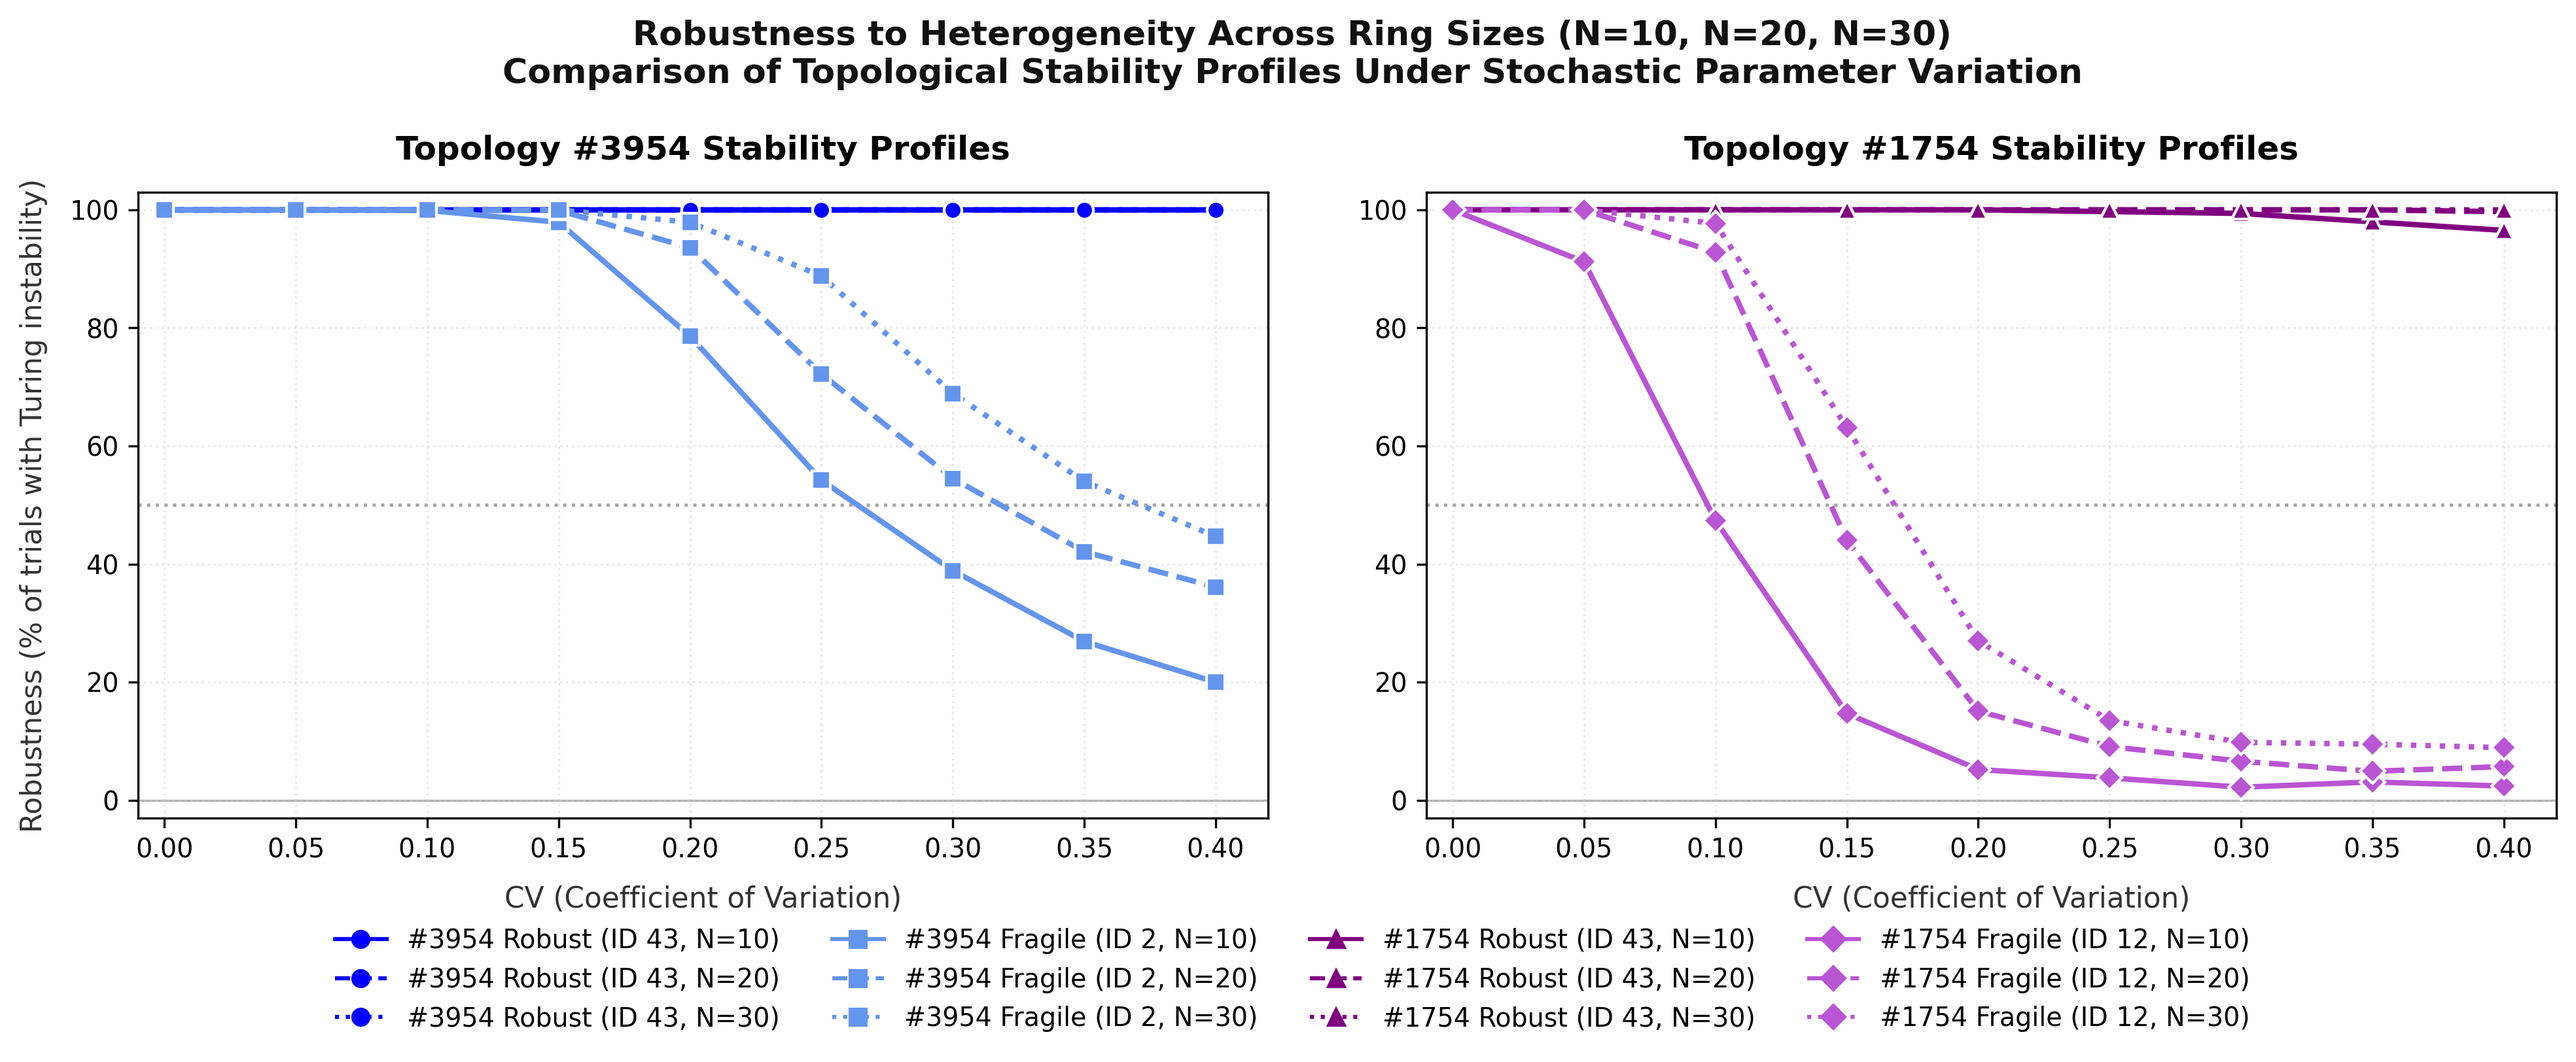
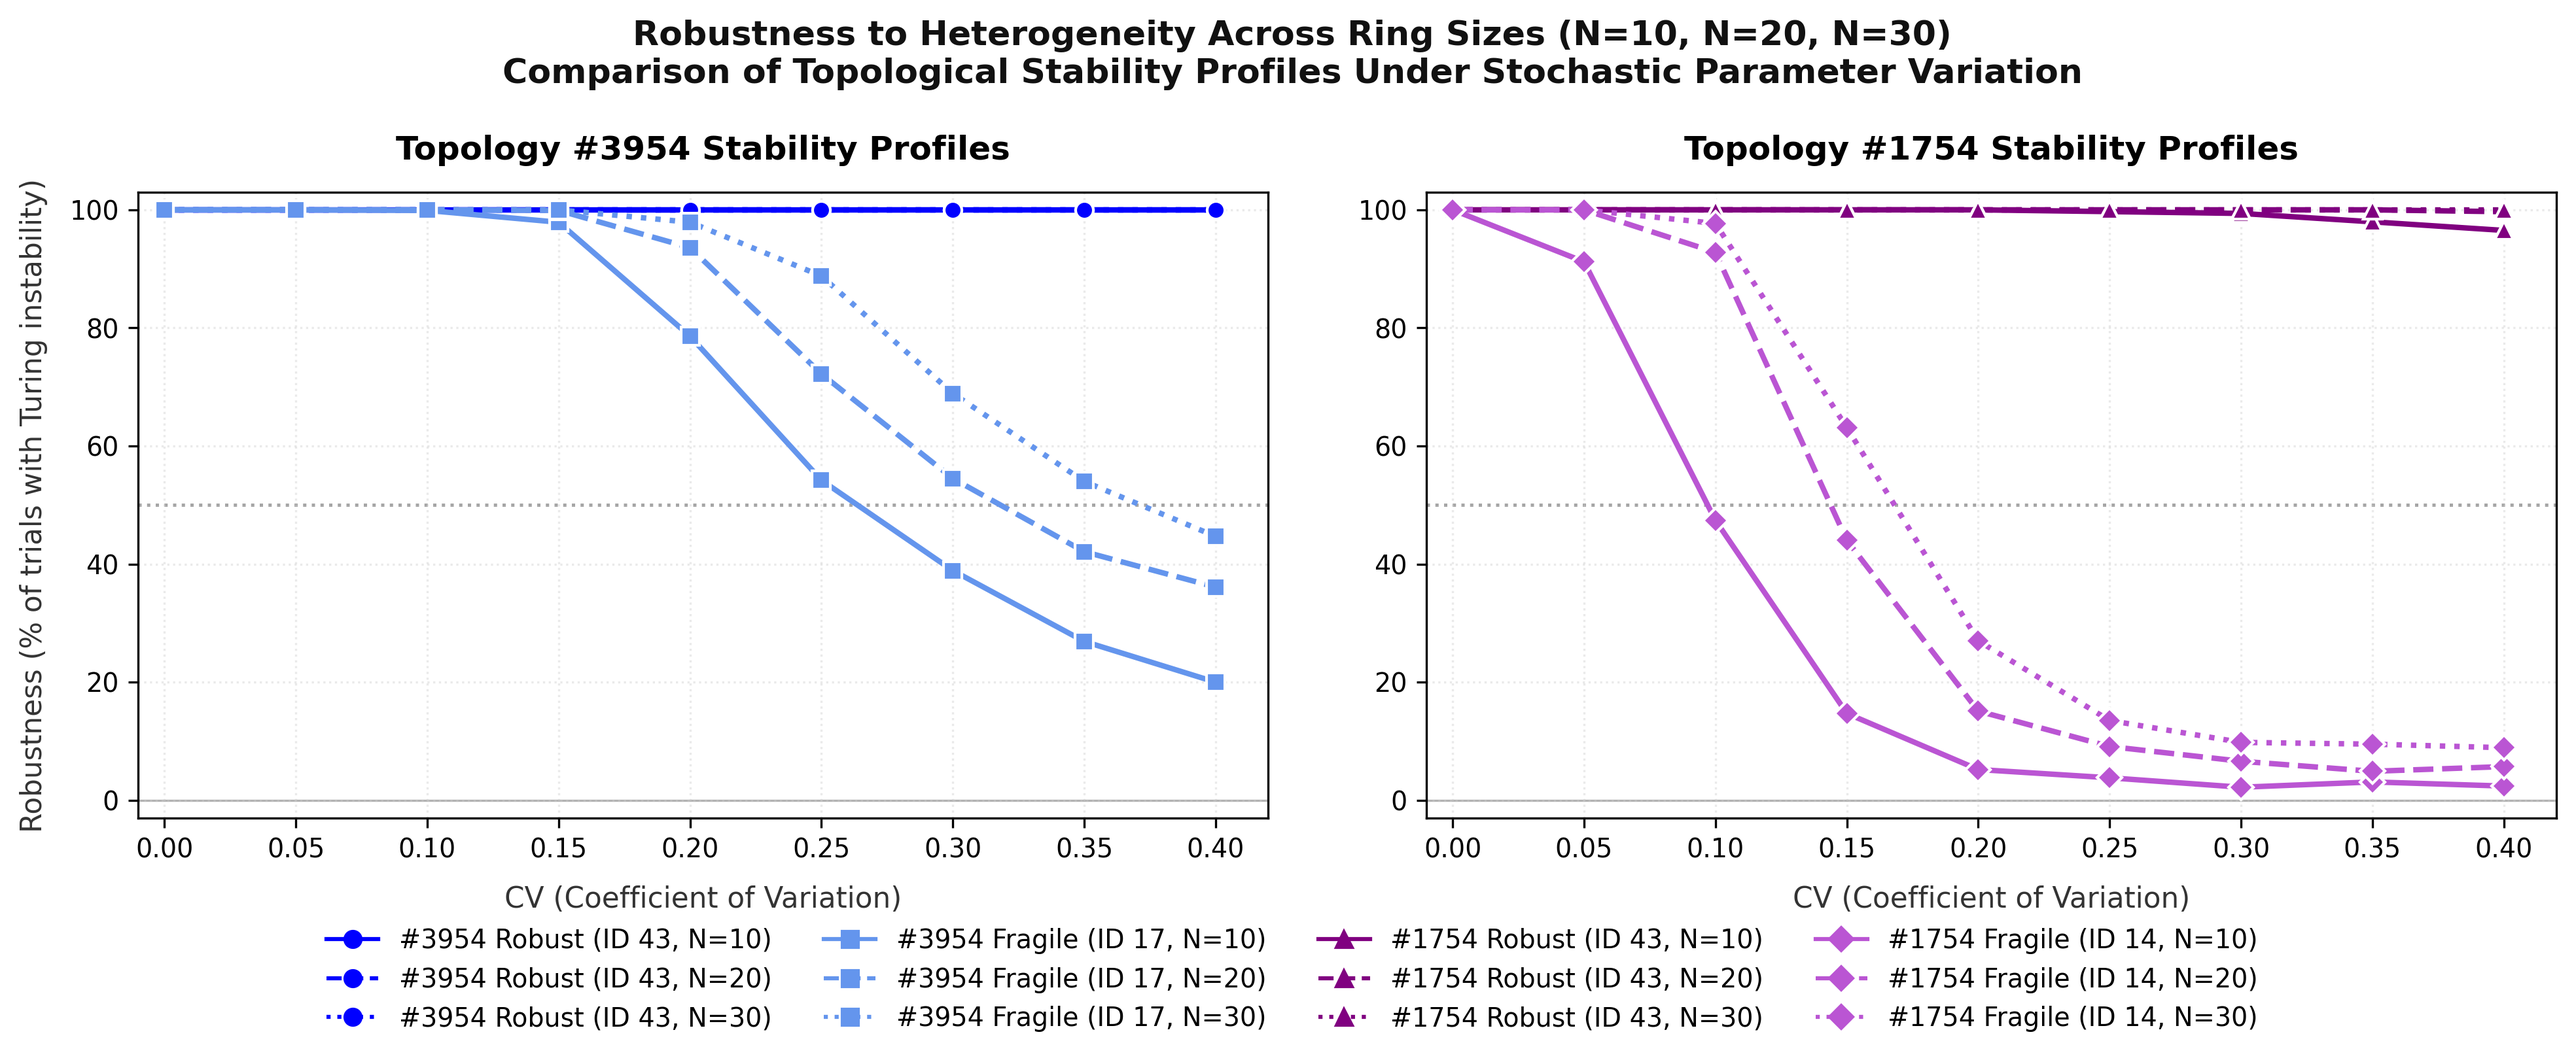
new plotsss

Changed region(s): [[0.125, 0.8621, 0.8748, 0.9852]]

diff --git a/BiologicalRealism/plots.py b/BiologicalRealism/plots.py
@@ -115,7 +115,7 @@ ax.axhline(y=0, color='red', linestyle='--', linewidth=2, label='Turing threshol
 # labels and title
 ax.set_xlabel('CV (Coefficient of Variation)', fontsize=12)
 ax.set_ylabel('Max Re(λ)', fontsize=12)
-ax.set_title(f'3954 Turing Growth Rate vs Parameter Heterogeneity\n'f'ID (robust): {diff_str(cv_robust_3954_N10["hopping"])}', fontsize=12, pad=15)
+ax.set_title(f'3954 Turing Growth Rate vs Parameter Heterogeneity\n'f'ID 43 (robust): {diff_str(cv_robust_3954_N10["hopping"])}', fontsize=12, pad=15)
 ax.legend(fontsize=11, loc='upper left')
 ax.grid(True, alpha=0.3)
 
@@ -154,7 +154,7 @@ ax.set_xlabel('CV (Coefficient of Variation)', fontsize=12)
 ax.set_ylabel('Max Re(λ)', fontsize=12)
 
 ax.set_title(f'3954 Distribution of Turing Growth Rates Under Parameter Heterogeneity\n'
-             f'ID (robust): {diff_str(cv_robust_3954_N10["hopping"])}',
+             f'ID 43 (robust): {diff_str(cv_robust_3954_N10["hopping"])}',
              fontsize=12, pad=15)
 
 ax.legend(fontsize=9, framealpha=0.9)  # Was fontsize=11
@@ -178,17 +178,17 @@ ax.axhline(y=0, color='red', linestyle='--', linewidth=2, label='Turing threshol
 
 ax.set_xlabel('CV (Coefficient of Variation)', fontsize=12)
 ax.set_ylabel('Max Re(λ)', fontsize=12)
-ax.set_title(f'3954 Turing Growth Rate vs Parameter Heterogeneity\n' f'ID (fragile): {diff_str(cv_fragile_3954_N10["hopping"])}', fontsize=12, pad=15)
+ax.set_title(f'3954 Turing Growth Rate vs Parameter Heterogeneity\n' f'ID 17 (fragile): {diff_str(cv_fragile_3954_N10["hopping"])}', fontsize=12, pad=15)
 ax.legend(fontsize=11, loc='upper left')
 ax.grid(True, alpha=0.3)
 
 plt.tight_layout()
-plt.savefig('3954_config2_fig1_mean_range_vs_cv.png', dpi=300, bbox_inches='tight')
-print("Saved: 3954_config2_fig1_mean_range_vs_cv.png")
+plt.savefig('3954_config17_mean_range_vs_cv.png', dpi=300, bbox_inches='tight')
+print("Saved: 3954_config17_mean_range_vs_cv.png")
 plt.close()
 
 # ============================================================================
-# FIGURE 2B: Boxplot — Config 2
+# FIGURE 2B: Boxplot
 # ============================================================================
 
 fig, ax = plt.subplots(figsize=(12, 6))
@@ -212,15 +212,15 @@ ax.set_xticklabels([f'{cv:.2f}' for cv in cv_fragile_3954_N10['CV']])
 ax.set_xlabel('CV (Coefficient of Variation)', fontsize=12)
 ax.set_ylabel('Max Re(λ)', fontsize=12)
 ax.set_title(f'3954 Distribution of Turing Growth Rates Under Parameter Heterogeneity\n'
-             f'ID (fragile): {diff_str(cv_fragile_3954_N10["hopping"])} — 1000 trials per CV',
+             f'ID 17 (fragile): {diff_str(cv_fragile_3954_N10["hopping"])} — 1000 trials per CV',
              fontsize=12, pad=15)
 
 ax.legend(fontsize=9, framealpha=0.9)
 ax.grid(True, alpha=0.3, axis='y')
 
 plt.tight_layout()
-plt.savefig('3954_config2_fig2_boxplot_cv_sweep.png', dpi=300, bbox_inches='tight')
-print("Saved: 3954_config2_fig2_boxplot_cv_sweep.png")
+plt.savefig('3954_config17_boxplot_cv_sweep.png', dpi=300, bbox_inches='tight')
+print("Saved: 3954_config17_boxplot_cv_sweep.png")
 plt.close()
 
 
@@ -249,13 +249,13 @@ ax.axhline(y=0, color='red', linestyle='--', linewidth=2, label='Turing threshol
 
 ax.set_xlabel('CV (Coefficient of Variation)', fontsize=12)
 ax.set_ylabel('Max Re(λ)', fontsize=12)
-ax.set_title(f'1754 Turing Growth Rate vs Parameter Heterogeneity\n'f'ID (robust): {diff_str(cv_fragile_1754_N10["hopping"])}', fontsize=12, pad=15)
+ax.set_title(f'1754 Turing Growth Rate vs Parameter Heterogeneity\n'f'ID 43 (robust): {diff_str(cv_fragile_1754_N10["hopping"])}', fontsize=12, pad=15)
 ax.legend(fontsize=11, loc='upper left')
 ax.grid(True, alpha=0.3)
 
 plt.tight_layout()
-plt.savefig('1754_config43_fig1_mean_range_vs_cv.png', dpi=300, bbox_inches='tight')
-print("Saved as config43_fig1_mean_range_vs_cv.png")
+plt.savefig('1754_config43_mean_range_vs_cv.png', dpi=300, bbox_inches='tight')
+print("Saved as config43_mean_range_vs_cv.png")
 plt.close()
 
 # ============================================================================
@@ -287,15 +287,15 @@ ax.set_xlabel('CV (Coefficient of Variation)', fontsize=12)
 ax.set_ylabel('Max Re(λ)', fontsize=12)
 
 ax.set_title(f'1754 Distribution of Turing Growth Rates Under Parameter Heterogeneity\n'
-             f'ID (robust): {diff_str(cv_robust_1754_N10["hopping"])}',
+             f'ID 43(robust): {diff_str(cv_robust_1754_N10["hopping"])}',
              fontsize=12, pad=15)
 
 ax.legend(fontsize=9, framealpha=0.9)  # Was fontsize=11
 ax.grid(True, alpha=0.3, axis='y')
 
 plt.tight_layout()
-plt.savefig('1754_config43_fig2_boxplot_cv_sweep.png', dpi=300, bbox_inches='tight')
-print("Saved: 1754_config43_fig2_boxplot_cv_sweep.png")
+plt.savefig('1754_config43_boxplot_cv_sweep.png', dpi=300, bbox_inches='tight')
+print("Saved: 1754_config43_boxplot_cv_sweep.png")
 plt.close()
 
 
@@ -316,8 +316,8 @@ ax.legend(fontsize=11, loc='upper left')
 ax.grid(True, alpha=0.3)
 
 plt.tight_layout()
-plt.savefig('1754_config12_fig1_mean_range_vs_cv.png', dpi=300, bbox_inches='tight')
-print("Saved: 1754_config12_fig1_mean_range_vs_cv.png")
+plt.savefig('1754_config14_mean_range_vs_cv.png', dpi=300, bbox_inches='tight')
+print("Saved: 1754_config14_mean_range_vs_cv.png")
 plt.close()
 
 # ============================================================================
@@ -345,15 +345,15 @@ ax.set_xticklabels([f'{cv:.2f}' for cv in cv_fragile_1754_N10['CV']])
 ax.set_xlabel('CV (Coefficient of Variation)', fontsize=12)
 ax.set_ylabel('Max Re(λ)', fontsize=12)
 ax.set_title(f'1754 Distribution of Turing Growth Rates Under Parameter Heterogeneity\n'
-             f'ID (fragile): {diff_str(cv_fragile_1754_N10["hopping"])} with 1000 trials per CV',
+             f'ID 14 (fragile): {diff_str(cv_fragile_1754_N10["hopping"])} with 1000 trials per CV',
              fontsize=12, pad=15)
 
 ax.legend(fontsize=9, framealpha=0.9)
 ax.grid(True, alpha=0.3, axis='y')
 
 plt.tight_layout()
-plt.savefig('1754_config12_fig2_boxplot_cv_sweep.png', dpi=300, bbox_inches='tight')
-print("Saved: 1754_config12_fig2_boxplot_cv_sweep.png")
+plt.savefig('1754_config14_boxplot_cv_sweep.png', dpi=300, bbox_inches='tight')
+print("Saved: 1754_config14_boxplot_cv_sweep.png")
 plt.close()
 
 
@@ -467,13 +467,13 @@ def plot_sensitivity(sens, config_label, save_name):
 # ============================================================================
 # FIGURE 3A + 3B : Sensitivity 
 # ============================================================================
-plot_sensitivity(sens_3954_robust, 'ID 43 (robust)', '3954_config43_fig3_sensitivity.png')
+plot_sensitivity(sens_3954_robust, 'ID 43 (robust)', '3954_config43_sensitivity.png')
 
-plot_sensitivity(sens_3954_fragile, 'ID (fragile)', '3954_config2_fig3_sensitivity.png')
+plot_sensitivity(sens_3954_fragile, 'ID 17 (fragile)', '3954_config17_sensitivity.png')
 
-plot_sensitivity(sens_1754_robust, 'ID 43 (robust)', '1754_config43_fig3_sensitivity.png')
+plot_sensitivity(sens_1754_robust, 'ID 43 (robust)', '1754_config43_sensitivity.png')
 
-plot_sensitivity(sens_1754_fragile, 'ID  (fragile)', '1754_config12_fig3_sensitivity.png')
+plot_sensitivity(sens_1754_fragile, 'ID 14 (fragile)', '1754_config14_sensitivity.png')
 
 
 
@@ -488,17 +488,17 @@ robustness_curves = [
     {'label': '#3954 Robust (ID 43, N=20)','CV': cv_robust_3954_N20['CV'], 'robustness': cv_robust_3954_N20['robustness'],'color': 'blue', 'marker': 'o', 'linestyle': '--',},
     {'label': '#3954 Robust (ID 43, N=30)','CV': cv_robust_3954_N30['CV'], 'robustness': cv_robust_3954_N30['robustness'],'color': 'blue', 'marker': 'o', 'linestyle': ':',},
     
-    {'label': '#3954 Fragile (ID 2, N=10)','CV':  cv_fragile_3954_N10['CV'], 'robustness': cv_fragile_3954_N10['robustness'],'color': 'cornflowerblue', 'marker': 's', 'linestyle': '-',},
-    {'label': '#3954 Fragile (ID 2, N=20)','CV':  cv_fragile_3954_N20['CV'], 'robustness': cv_fragile_3954_N20['robustness'],'color': 'cornflowerblue', 'marker': 's', 'linestyle': '--',},
-    {'label': '#3954 Fragile (ID 2, N=30)','CV':  cv_fragile_3954_N30['CV'], 'robustness': cv_fragile_3954_N30['robustness'],'color': 'cornflowerblue', 'marker': 's', 'linestyle': ':',},
+    {'label': '#3954 Fragile (ID 17, N=10)','CV':  cv_fragile_3954_N10['CV'], 'robustness': cv_fragile_3954_N10['robustness'],'color': 'cornflowerblue', 'marker': 's', 'linestyle': '-',},
+    {'label': '#3954 Fragile (ID 17, N=20)','CV':  cv_fragile_3954_N20['CV'], 'robustness': cv_fragile_3954_N20['robustness'],'color': 'cornflowerblue', 'marker': 's', 'linestyle': '--',},
+    {'label': '#3954 Fragile (ID 17, N=30)','CV':  cv_fragile_3954_N30['CV'], 'robustness': cv_fragile_3954_N30['robustness'],'color': 'cornflowerblue', 'marker': 's', 'linestyle': ':',},
     
     {'label': '#1754 Robust (ID 43, N=10)','CV': cv_robust_1754_N10['CV'], 'robustness': cv_robust_1754_N10['robustness'],'color': 'purple', 'marker': '^', 'linestyle': '-',},
     {'label': '#1754 Robust (ID 43, N=20)','CV': cv_robust_1754_N20['CV'], 'robustness': cv_robust_1754_N20['robustness'],'color': 'purple', 'marker': '^', 'linestyle': '--',},
     {'label': '#1754 Robust (ID 43, N=30)','CV': cv_robust_1754_N30['CV'], 'robustness': cv_robust_1754_N30['robustness'],'color': 'purple', 'marker': '^', 'linestyle': ':',},
     
-    {'label': '#1754 Fragile (ID 12, N=10)','CV': cv_fragile_1754_N10['CV'], 'robustness': cv_fragile_1754_N10['robustness'],'color': 'mediumorchid', 'marker': 'D', 'linestyle': '-',},
-    {'label': '#1754 Fragile (ID 12, N=20)','CV': cv_fragile_1754_N20['CV'], 'robustness': cv_fragile_1754_N20['robustness'],'color': 'mediumorchid', 'marker': 'D', 'linestyle': '--',},
-    {'label': '#1754 Fragile (ID 12, N=30)','CV': cv_fragile_1754_N30['CV'], 'robustness': cv_fragile_1754_N30['robustness'],'color': 'mediumorchid', 'marker': 'D', 'linestyle': ':',},
+    {'label': '#1754 Fragile (ID 14, N=10)','CV': cv_fragile_1754_N10['CV'], 'robustness': cv_fragile_1754_N10['robustness'],'color': 'mediumorchid', 'marker': 'D', 'linestyle': '-',},
+    {'label': '#1754 Fragile (ID 14, N=20)','CV': cv_fragile_1754_N20['CV'], 'robustness': cv_fragile_1754_N20['robustness'],'color': 'mediumorchid', 'marker': 'D', 'linestyle': '--',},
+    {'label': '#1754 Fragile (ID 14, N=30)','CV': cv_fragile_1754_N30['CV'], 'robustness': cv_fragile_1754_N30['robustness'],'color': 'mediumorchid', 'marker': 'D', 'linestyle': ':',},
 ]
 
 # combined plot with two subplots for each topology
